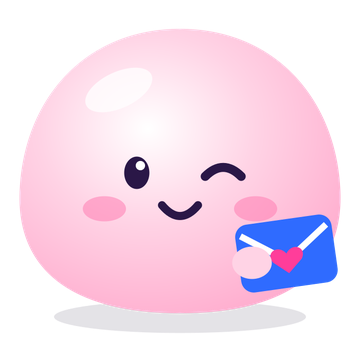
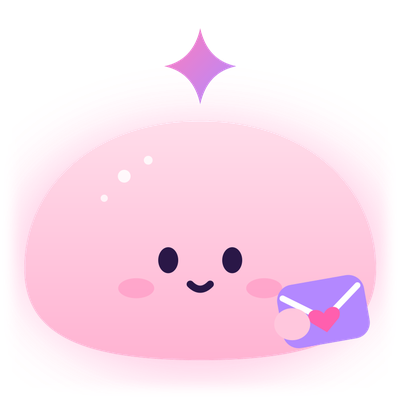
Update the mochiboost card to the app's current look (brand v2)
Use the app's lowercase wordmark and Mochi v2 art, the dark GlowCard
style (pink-to-lilac edge on plum) and the store-listing wording, and
link to mochiboost.com and its privacy policy.

Claude-Session: https://claude.ai/code/session_01QCES7i63fwwnK87imonLTa

diff --git a/index.html b/index.html
@@ -5,17 +5,17 @@
 <meta name="viewport" content="width=device-width, initial-scale=1, viewport-fit=cover">
 <title>Pipkin Labs</title>
 <meta name="claude:viewport-fit-sides" content="cover">
-<meta name="description" content="Pipkin Labs is a small UK app studio. Our first app, MochiBoost, is coming soon to iPhone and Android.">
+<meta name="description" content="Pipkin Labs is a small UK app studio. Our first app, mochiboost, is coming soon to Android and iPhone.">
 <meta name="theme-color" content="#1B1036">
 <meta property="og:title" content="Pipkin Labs">
-<meta property="og:description" content="Small things, made with heart. MochiBoost is coming soon.">
+<meta property="og:description" content="Small things, made with heart. mochiboost is coming soon.">
 <link rel="icon" type="image/png" href="assets/favicon.png">
 <link rel="apple-touch-icon" href="assets/apple-touch-icon.png">
 <link rel="preconnect" href="https://fonts.googleapis.com">
 <link rel="preconnect" href="https://fonts.gstatic.com" crossorigin>
 <link rel="stylesheet" href="https://fonts.googleapis.com/css2?family=Fredoka:wght@500;600&family=Nunito:wght@400;600;700&display=swap">
 <style>
-/* Layout: one dark Pipkin Labs column; the MochiBoost card is the single light "Milk" object, the studio signs off in the footer. */
+/* Layout: one dark Pipkin Labs column; the mochiboost card is the one raised object, drawn in the app's own look (brand v2), and the studio signs off in the footer. */
 :root {
   --plum: #1B1036;      /* Midnight Plum: page ground */
   --plum-2: #251846;    /* raised plum for the footer band */
@@ -25,9 +25,15 @@
   --hot: #FF3D9A;
   --lilac: #B388FF;
   --gold: #FFD45C;
-  --milk: #FFF0F7;      /* MochiBoost card */
-  --deep-plum: #2A1747; /* MochiBoost text */
-  --boost-pink: #DB1F76;
+  /* mochiboost brand v2 (dark), from the app's tool/brand/brand.json */
+  --mb-surface: #261A47;
+  --mb-raised: #32235A;
+  --mb-border: #3D2C6B;
+  --mb-muted: #A99BD0;
+  --mb-primary: #FF5FAE;
+  --mb-accent: #FF7DBB;
+  --mb-glow-pink: #FF5FAE;
+  --mb-glow-lilac: #B48CFF;
   --display: "Fredoka", "Arial Rounded MT Bold", "Trebuchet MS", system-ui, sans-serif;
   --body: "Nunito", "Segoe UI", system-ui, -apple-system, sans-serif;
   color-scheme: dark;
@@ -74,30 +80,36 @@ h1 .glow {
 }
 .lede { color: var(--lavender); font-size: 1.2rem; max-width: 34rem; margin: 1.4rem 0 0; }
 
-/* The one light object on the page */
+/* The mochiboost card: the app's GlowCard, a 2px pink-to-lilac edge with a soft pink glow */
 .app {
-  display: grid; grid-template-columns: minmax(0, 1fr) auto; align-items: center; gap: 1.5rem 2.5rem;
-  background: var(--milk); color: var(--deep-plum);
-  border-radius: 2rem; padding: clamp(1.75rem, 4vw, 3rem);
-  box-shadow: 0 30px 80px -30px rgba(255,61,154,.45);
-  position: relative;
+  border-radius: 2rem; padding: 2px;
+  background: linear-gradient(135deg, var(--mb-glow-pink), var(--mb-glow-lilac));
+  box-shadow: 0 0 48px -8px rgba(255,95,174,.35);
 }
-.app > div { min-width: 0; }
+.app-inner {
+  display: grid; grid-template-columns: minmax(0, 1fr) auto; align-items: center; gap: 1.5rem 2.5rem;
+  background: var(--mb-surface); color: var(--ink);
+  border-radius: calc(2rem - 2px); padding: clamp(1.75rem, 4vw, 3rem);
+}
+.app-inner > div { min-width: 0; }
 .app .badge {
   display: inline-flex; align-items: center; gap: .45rem;
   font: 700 .78rem/1 var(--body); letter-spacing: .1em; text-transform: uppercase;
-  color: var(--deep-plum); background: #fff; border: 2px solid var(--deep-plum);
+  color: var(--mb-accent); background: var(--mb-raised); border: 1px solid var(--mb-border);
   padding: .5rem .8rem; border-radius: 999px;
 }
-.app .badge::before { content: ""; width: .55rem; height: .55rem; border-radius: 50%; background: var(--boost-pink); animation: pulse 2s ease-in-out infinite; }
-.app-logo { display: block; width: min(22rem, 100%); height: auto; margin: 1.25rem 0 .75rem; }
+.app .badge::before { content: ""; width: .55rem; height: .55rem; border-radius: 50%; background: var(--mb-primary); animation: pulse 2s ease-in-out infinite; }
+.app-logo { display: block; width: min(20rem, 100%); height: auto; margin: 1.4rem 0 1rem; }
 .app h2 { font: 600 clamp(1.5rem, 3.2vw, 2rem)/1.15 var(--display); margin: 0; text-wrap: balance; }
-.app p { margin: .8rem 0 0; max-width: 34rem; }
-.stores { display: flex; flex-wrap: wrap; gap: .6rem; margin-top: 1.4rem; padding: 0; list-style: none; }
+.app p { margin: .8rem 0 0; max-width: 34rem; color: var(--mb-muted); }
+.app-foot { display: flex; flex-wrap: wrap; align-items: center; gap: .6rem 1.25rem; margin-top: 1.4rem; }
+.stores { display: flex; flex-wrap: wrap; gap: .6rem; margin: 0; padding: 0; list-style: none; }
 .stores li {
   font: 600 .95rem/1 var(--body); padding: .75rem 1.1rem; border-radius: 999px;
-  border: 2px dashed rgba(42,23,71,.35); color: var(--deep-plum);
+  background: var(--mb-raised); border: 1px solid var(--mb-border); color: var(--ink);
 }
+.app-link { font-weight: 700; color: var(--mb-accent); }
+.app-link:hover { color: var(--ink); }
 .mochi { width: clamp(9rem, 22vw, 14rem); height: auto; animation: bob 4s ease-in-out infinite; }
 
 .contact { padding-block: clamp(3rem, 7vw, 5rem); display: grid; gap: .6rem; }
@@ -115,8 +127,8 @@ footer nav { display: flex; gap: 1.25rem; align-items: flex-start; }
 @keyframes pulse { 0%,100% { opacity: 1; } 50% { opacity: .35; } }
 @media (prefers-reduced-motion: reduce) { .mochi, .app .badge::before { animation: none; } }
 @media (max-width: 640px) {
-  .app { grid-template-columns: 1fr; }
-  .mochi { display: none; }
+  .app-inner { grid-template-columns: 1fr; }
+  .mochi { grid-row: 1; width: 7.5rem; }
 }
 </style>
 </head>
@@ -134,23 +146,28 @@ footer nav { display: flex; gap: 1.25rem; align-items: flex-start; }
 
   <section class="wrap" aria-labelledby="app-title">
     <div class="app">
-      <div>
-        <span class="badge">Coming soon</span>
-        <img class="app-logo" src="assets/mochiboost-logo.png" alt="MochiBoost" width="640" height="147">
-        <h2 id="app-title">A little lift, whenever you need it.</h2>
-        <p>Daily Boosts for your self-esteem, from you and the people who love you. Mochi delivers kind words from your real friends and family, right when you need them.</p>
-        <ul class="stores" aria-label="Platforms">
-          <li>iPhone</li>
-          <li>Android</li>
-        </ul>
+      <div class="app-inner">
+        <div>
+          <span class="badge">Coming soon</span>
+          <img class="app-logo" src="assets/mochiboost-wordmark.png" alt="mochiboost" width="733" height="136">
+          <h2 id="app-title">Kind messages at the times you choose.</h2>
+          <p>Little kind messages, from you and the people who love you, right when you need them. Write your own Boosts, add some from friends and family, and Mochi delivers them with a sparkle.</p>
+          <div class="app-foot">
+            <ul class="stores" aria-label="Platforms">
+              <li>Android</li>
+              <li>iPhone</li>
+            </ul>
+            <a class="app-link" href="https://mochiboost.com">mochiboost.com</a>
+          </div>
+        </div>
+        <img class="mochi" src="assets/mochi.png" alt="Mochi, a round pink character carrying an envelope" width="400" height="400">
       </div>
-      <img class="mochi" src="assets/mochi.png" alt="Mochi, a round pink character, winking" width="360" height="342">
     </div>
   </section>
 
   <section class="wrap contact" aria-labelledby="contact-title">
     <h2 id="contact-title">Say hello</h2>
-    <p>Questions, press, or you just want to know when MochiBoost lands? Drop us a line.</p>
+    <p>Questions, press, or you just want to know when mochiboost lands? Drop us a line.</p>
     <a class="email" href="mailto:hello@pipkinlabs.com">hello@pipkinlabs.com</a>
   </section>
 </main>

diff --git a/privacy.html b/privacy.html
@@ -46,7 +46,7 @@ footer address { font-style: normal; }
   <h1>Privacy</h1>
   <p class="updated">Last updated 27 October 2026</p>
 
-  <p>This notice covers the pipkinlabs.com website. MochiBoost will have its own, fuller privacy policy when the app launches.</p>
+  <p>This notice covers the pipkinlabs.com website. The mochiboost app has its own privacy policy at <a href="https://mochiboost.com/privacy">mochiboost.com/privacy</a>.</p>
 
   <h2>Who we are</h2>
   <p>Pipkin Labs Ltd is the data controller for this website. Contact us at <a href="mailto:hello@pipkinlabs.com">hello@pipkinlabs.com</a>.</p>

diff --git a/README.md b/README.md
@@ -2,9 +2,9 @@
 
 Plain HTML, no build step. Files:
 
-- `index.html`: the coming-soon page (Pipkin Labs + MochiBoost card + contact + company details)
+- `index.html`: the coming-soon page (Pipkin Labs + mochiboost card + contact + company details)
 - `privacy.html`: short website privacy notice
-- `assets/`: logos, Mochi, favicon (resized from Branding/Claude - Brand_Assets.zip)
+- `assets/`: logos, Mochi, favicon (Pipkin Labs art from Branding/; mochiboost art from the app repo, assets/brand (brand v2))
 - `CNAME`: tells GitHub Pages which domain to serve
 
 ## Before you go live
